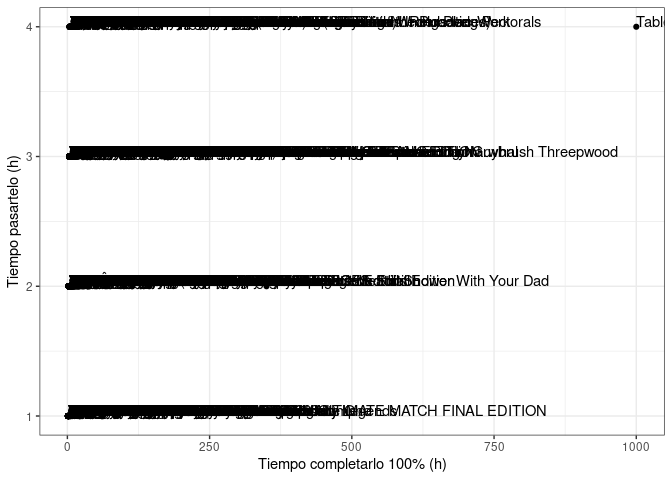
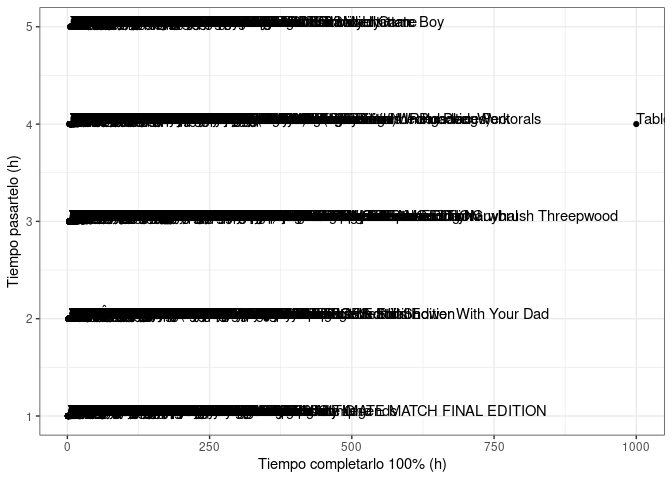
updt

diff --git a/README.md b/README.md
@@ -129,12 +129,28 @@ based game we should focus on the games that have a really low time to
 complete (less than 5h) but insane time for 100% finishing.
 
 ``` r
-datos_lim<-datos_lim[datos_lim$V3<5,]
+datos_lim<-datos_lim[datos_lim$V3<=5,]
 
 ggplot(datos_lim, aes(V4,V3,label=V1)) + geom_point() + theme_bw() + geom_text(hjust=0, vjust=0) + ylab("Tiempo pasartelo (h)") + xlab("Tiempo completarlo 100% (h)")
 ```
 
 ![](Library_Metadata_Analysis_files/figure-gfm/unnamed-chunk-7-1.png)<!-- -->
+
+This representation is not the best option for lloking at the data,
+let’s represent it as barplots
+
+``` r
+datos_lim<-datos_lim[datos_lim$V3<=1,]
+
+ggplot(datos_lim, aes(V3,V4,label=V1)) + geom_jitter(position = position_jitter(seed = 1)) + geom_text(position = position_jitter(seed = 1)) + theme_bw()
+```
+
+![](Library_Metadata_Analysis_files/figure-gfm/unnamed-chunk-8-1.png)<!-- -->
+This way you can take a closer look at games that will only take an hour
+to finish, most of them Arcade games, but will take up to 80 hours to
+finish completely, in the case of King of Fighters ’98 Ultimate Match
+Final Edition. (ESTO ES MEJOR HACER BoxPlot y mostrar solo los puntos
+que sean outlier…cómo?)
 
 ################################# Analyze Steam_library
 
